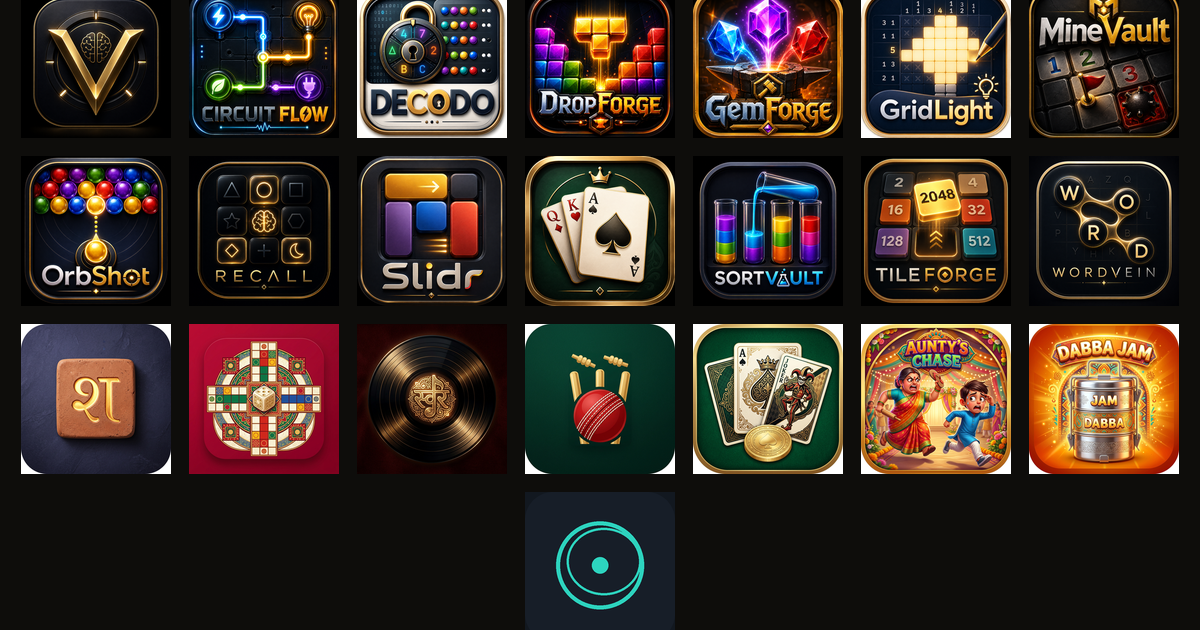
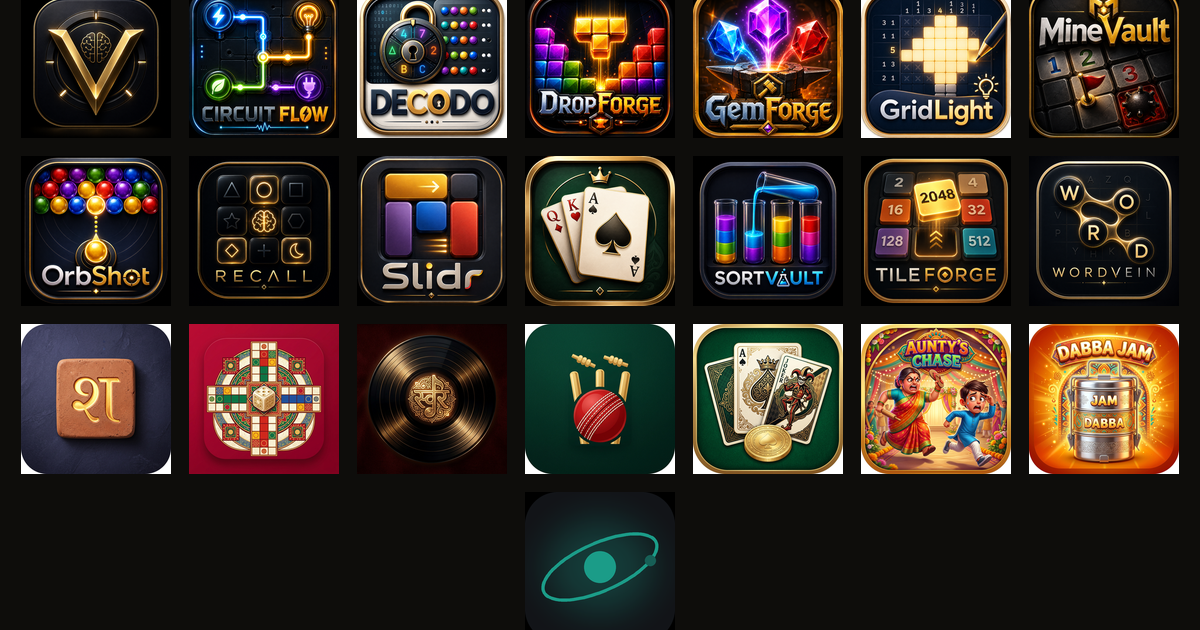
fix: point VividOrbit at its real repo, adopt the new brand mark
- The source link pointed at Voryn-Labs/VividOrbit, which did not exist and
  404'd for visitors. The repo has since been transferred from
  tinyredphoenix into the org, so the link now resolves.
- Icon rebuilt from VividOrbit's new launcher mark (the editorial brand card
  was unreadable at card size), accent retuned #2DD7C2 -> #1B9C88 to sit with
  the muted Lumen accents.
- Icon source moved to assets/brand/app_icon.png; og.png regenerated.

diff --git a/docs/index.html b/docs/index.html
@@ -93,7 +93,7 @@
           <img class="orbit-icon oi-3" src="assets/icons/circuitflow-dark.png" data-dark="assets/icons/circuitflow-dark.png" data-light="assets/icons/circuitflow-light.png" alt="" width="56" height="56" style="--accent:#1359D7" decoding="async">
           <img class="orbit-icon oi-4" src="assets/icons/dabbastack-dark.png" data-dark="assets/icons/dabbastack-dark.png" data-light="assets/icons/dabbastack-light.png" alt="" width="78" height="78" style="--accent:#DA5904" decoding="async">
           <img class="orbit-icon oi-5" src="assets/icons/gridlight-dark.png" data-dark="assets/icons/gridlight-dark.png" data-light="assets/icons/gridlight-light.png" alt="" width="58" height="58" style="--accent:#4D8B3A" decoding="async">
-          <img class="orbit-icon oi-6" src="assets/icons/vividorbit-dark.png" data-dark="assets/icons/vividorbit-dark.png" data-light="assets/icons/vividorbit-light.png" alt="" width="64" height="64" style="--accent:#2DD7C2" decoding="async">
+          <img class="orbit-icon oi-6" src="assets/icons/vividorbit-dark.png" data-dark="assets/icons/vividorbit-dark.png" data-light="assets/icons/vividorbit-light.png" alt="" width="64" height="64" style="--accent:#1B9C88" decoding="async">
           <img class="orbit-icon oi-7" src="assets/icons/tileforge-dark.png" data-dark="assets/icons/tileforge-dark.png" data-light="assets/icons/tileforge-light.png" alt="" width="52" height="52" style="--accent:#C38416" decoding="async">
         </div>
       </div>
@@ -340,7 +340,7 @@
           </header>
           <div class="apps-grid" data-collection="livingroom">
             <!-- CARDS:livingroom — generated by tools/render_cards.py -->
-            <article class="app-card app-card--featured" id="app-vividorbit" style="--accent:#2DD7C2">
+            <article class="app-card app-card--featured" id="app-vividorbit" style="--accent:#1B9C88">
               <div class="card-brand">
                 <img class="app-icon" src="assets/icons/vividorbit-dark.png" data-dark="assets/icons/vividorbit-dark.png" data-light="assets/icons/vividorbit-light.png" alt="VividOrbit — app icon" width="128" height="128" loading="lazy">
                 <span class="chip">Android TV</span>

diff --git a/docs/assets/js/apps.js b/docs/assets/js/apps.js
@@ -75,7 +75,7 @@ window.VORYN_APPS = [
     tagline: "Mumbai's dabbawala tiffin-sort puzzle.", storeUrl: null },
 
   /* ---------- Collection III — The Living Room ---------- */
-  { id: "vividorbit",  name: "VividOrbit",   genre: "live tv",    accent: "#2DD7C2", collection: "livingroom",
+  { id: "vividorbit",  name: "VividOrbit",   genre: "live tv",    accent: "#1B9C88", collection: "livingroom",
     repoUrl: "https://github.com/Voryn-Labs/VividOrbit",
     platform: "Android TV", featured: true,
     tagline: "A lightweight, fully offline live-TV and lineup manager for Android TV and Google TV. Renumber your channels the way you actually watch them, and manage the whole lineup from your phone over a QR code — nothing leaves your living room.",

diff --git a/tools/extract_site_icons.py b/tools/extract_site_icons.py
@@ -45,7 +45,7 @@ SINGLE_SOURCE = {
     "rummyfold":  "apps/indiaapps/rummyfold/assets/brand/app_icon.png",
     "bhagobeta":  "apps/india_games/bhagobeta/assets/brand/app_icon.png",
     "dabbastack": "apps/india_games/dabbastack/assets/brand/app_icon.png",
-    "vividorbit": "../VividOrbit/app/src/main/res/drawable/logo.png",
+    "vividorbit": "../VividOrbit/app/src/main/assets/brand/app_icon.png",
 }
 
 ALL_APPS = APPS + tuple(SINGLE_SOURCE)
